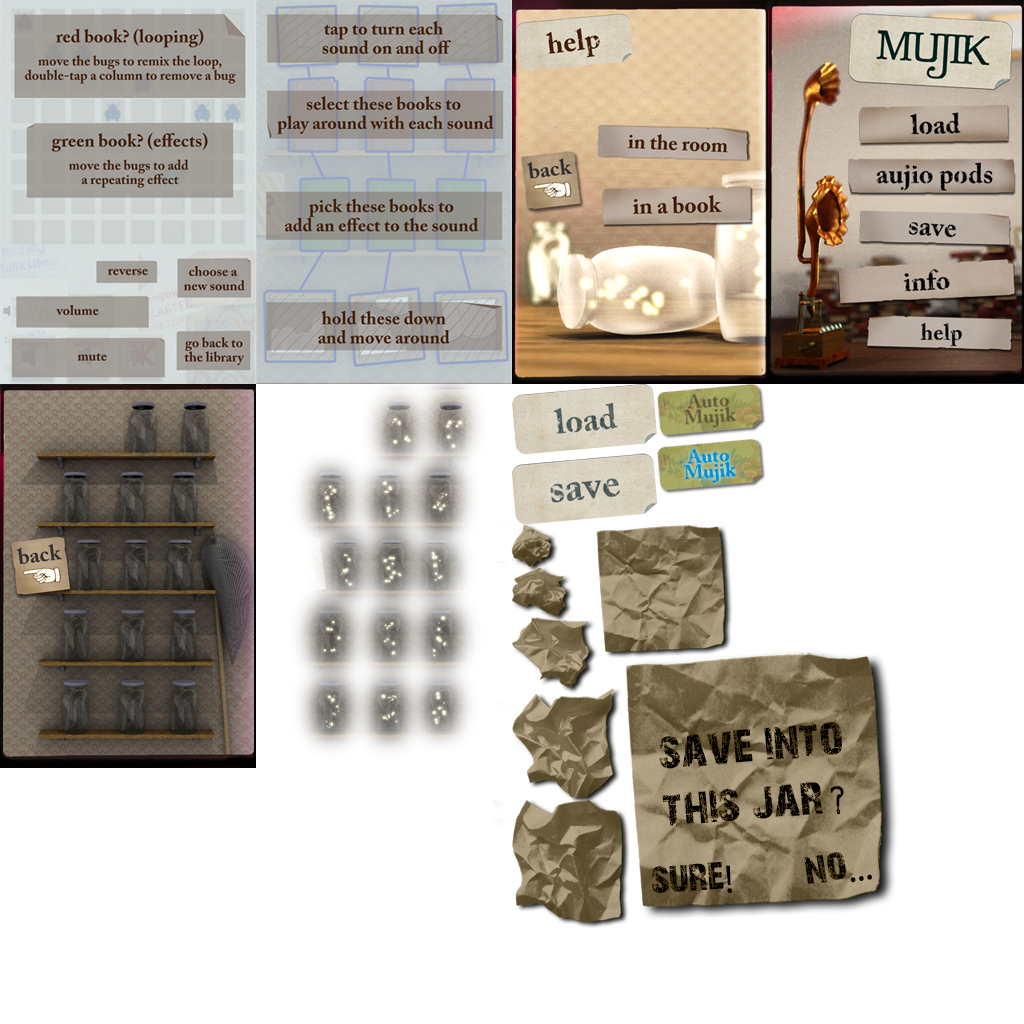
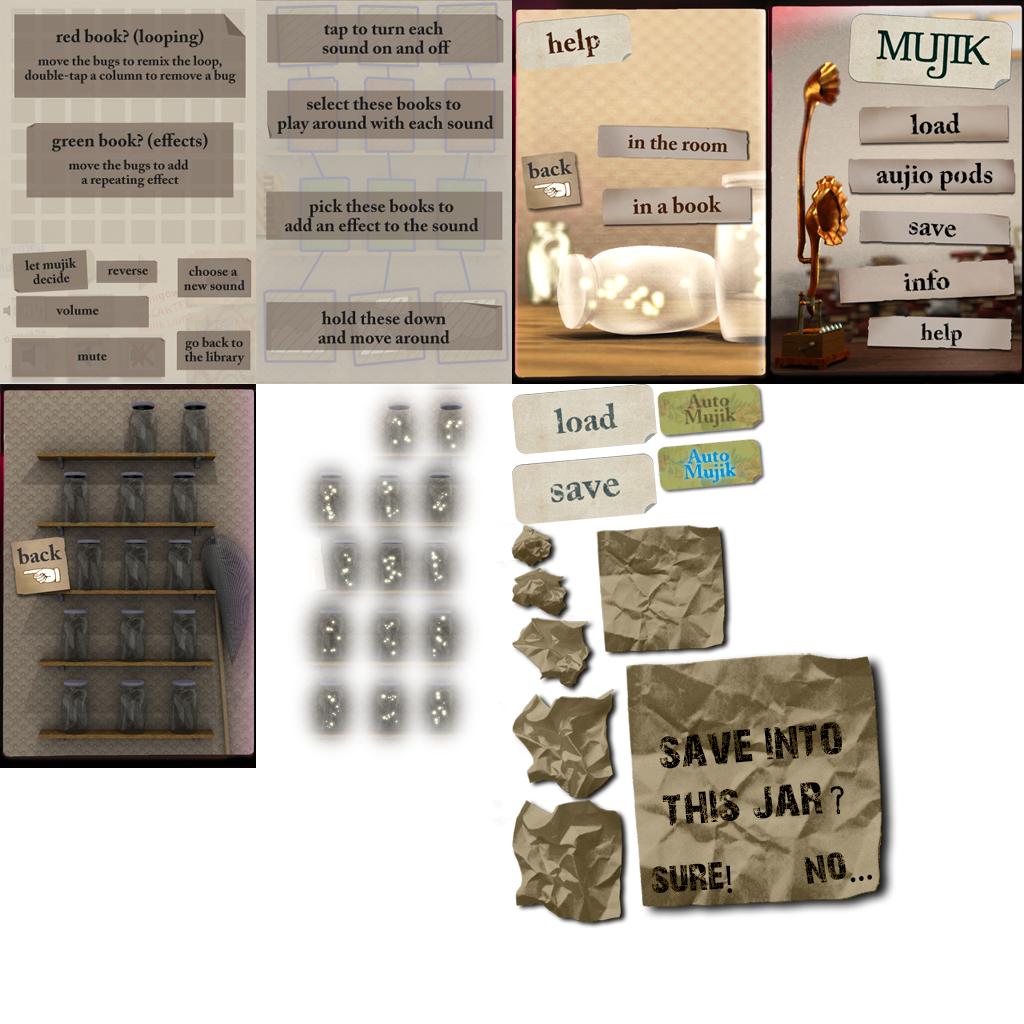
reordered the banks on teh screen, changed the loading screen

Changed region(s): [[0.0, 0.0, 0.5, 0.375]]

diff --git a/src/controllers/bankController.mm b/src/controllers/bankController.mm
@@ -19,6 +19,7 @@
 	NSBundle* myBundle = [NSBundle mainBundle];
 	int nBanks = DIR.listDir("banks");
 	bankButtons = [[NSMutableArray alloc] initWithCapacity:0];
+	GLbankButton *bankButton1, *bankButton2, *bankButton3, *bankButton4;
 	for(int i = 0; i < nBanks; i++){
 		NSString *bank_path = [[NSString alloc] initWithCString:DIR.getPath(i).c_str()];
 		NSString *path = [NSBundle pathForResource:@"bank_info" ofType:@"plist" inDirectory:bank_path];
@@ -27,15 +28,19 @@
 		GLbankButton *bankButton = [[[GLbankButton alloc] initWithFrame:CGRectMake(0, 0, 217, 320)]retain];
 		[bankButton setColor:0xFFFFFF];
 		
-		if(i==0){
+		if([[bank_info objectForKey:@"bank_name"] isEqual:@"Tronjik"]){
+			bankButton1 = bankButton;
 			bankButton.currentTranslation = CGAffineTransformTranslate(bankButton.currentTranslation, 127, 20);
 			bankButton.currentTranslation = CGAffineTransformRotate(bankButton.currentTranslation, degreesToRadians(10));
-		}else if(i==1){
+		}else if([[bank_info objectForKey:@"bank_name"] isEqual:@"Bilda"]){
+			bankButton2 = bankButton;
 			bankButton.currentTranslation = CGAffineTransformTranslate(bankButton.currentTranslation, 0, 114);
-		}else if(i==2){
+		}else if([[bank_info objectForKey:@"bank_name"] isEqual:@"Tibtem"]){
+			bankButton3 = bankButton;
 			bankButton.currentTranslation = CGAffineTransformTranslate(bankButton.currentTranslation, 156, 133);
 			bankButton.currentTranslation = CGAffineTransformRotate(bankButton.currentTranslation, degreesToRadians(7));
-		}else if(i==3){
+		}else if([[bank_info objectForKey:@"bank_name"] isEqual:@"Mijka"]){
+			bankButton4 = bankButton;
 			bankButton.currentTranslation = CGAffineTransformTranslate(bankButton.currentTranslation, 96, 248);
 			bankButton.currentTranslation = CGAffineTransformRotate(bankButton.currentTranslation, degreesToRadians(-5));
 		}
@@ -47,8 +52,14 @@
 		[bankButton setAuthorTitle:[bank_info objectForKey:@"author_name"]];
 		NSLog([bank_info objectForKey:@"author_name"]);
 		[bankData addObject:bank_info];
-		[bankButtons addObject:bankButton];
+		
     }
+	
+	[bankButtons addObject:bankButton1];
+	[bankButtons addObject:bankButton2];
+	[bankButtons addObject:bankButton3];
+	[bankButtons addObject:bankButton4];
+	
 	exitButton = [[[GLButton alloc] initWithFrame:CGRectMake(14, 190, 77, 78)]retain];
 	exitButton._delegate = self;
 	exitButton.visible = false;

diff --git a/src/audio_system/RemoteIOPlayer.m b/src/audio_system/RemoteIOPlayer.m
@@ -8,7 +8,8 @@
 
 #import "RemoteIOPlayer.h"
 #include <AudioUnit/AudioUnit.h>
-
+#include <AudioToolbox/AudioToolbox.h>
+#include <CoreAudio/CoreAudioTypes.h>
 #define kOutputBus 0
 #define kInputBus 1
 
@@ -37,7 +38,10 @@ AudioStreamBasicDescription audioFormat;
 		[[[self instrumentGroup] objectAtIndex:k]setCurrentSample:k];
 		[[[self instrumentGroup] objectAtIndex:k]reset];
 	}
+	
+
 	AudioSessionSetActive(true);
+	
 	OSStatus status = AudioOutputUnitStart(audioUnit);
 	playing = true;
 	return status;

diff --git a/src/models/bankModel.m b/src/models/bankModel.m
@@ -18,7 +18,7 @@
 	self = [super init];
 
 	phraseSet = [[NSMutableDictionary alloc]initWithCapacity:0];
-	bankName = [[NSMutableString stringWithString:@"Mujik Loops"]retain];
+	bankName = [[NSMutableString stringWithString:@"Mijka"]retain];
 	currentParent = [[parentModel alloc] init];
 	
 	return self;
